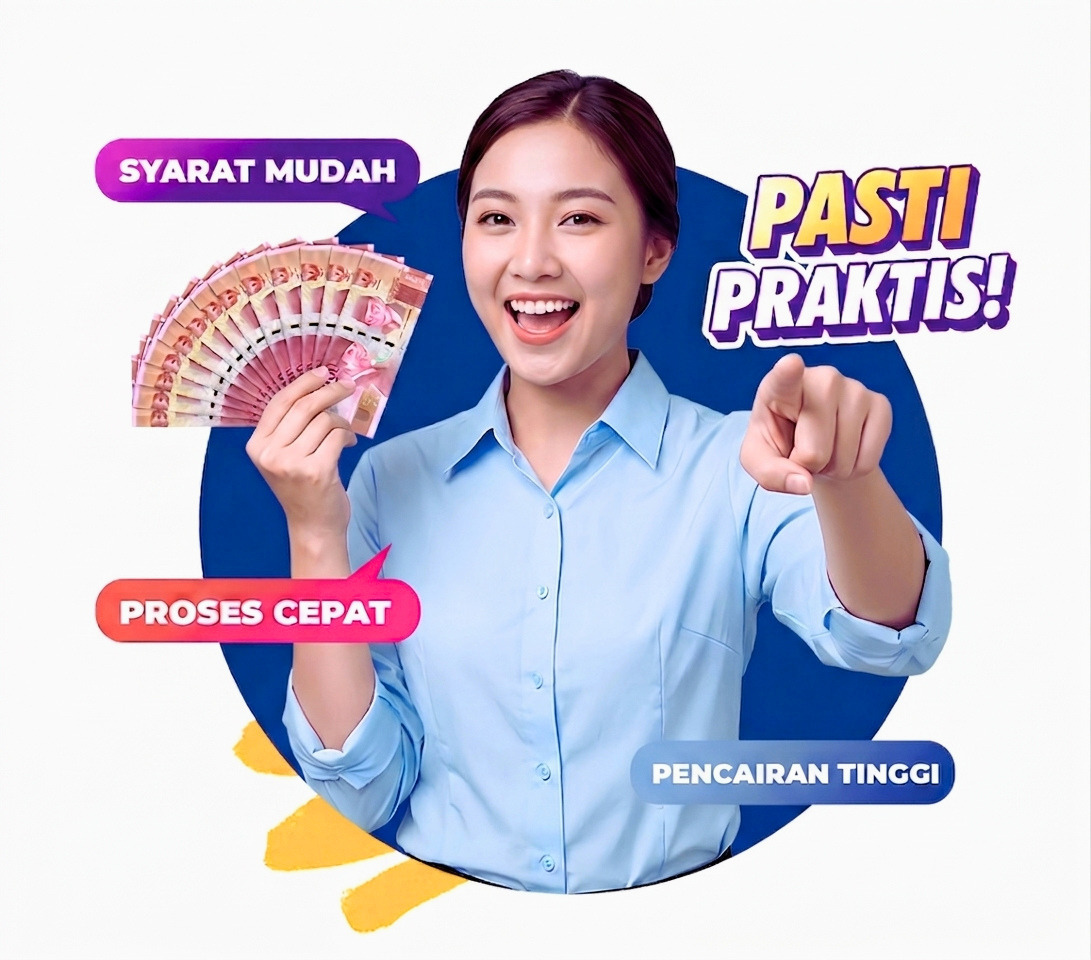
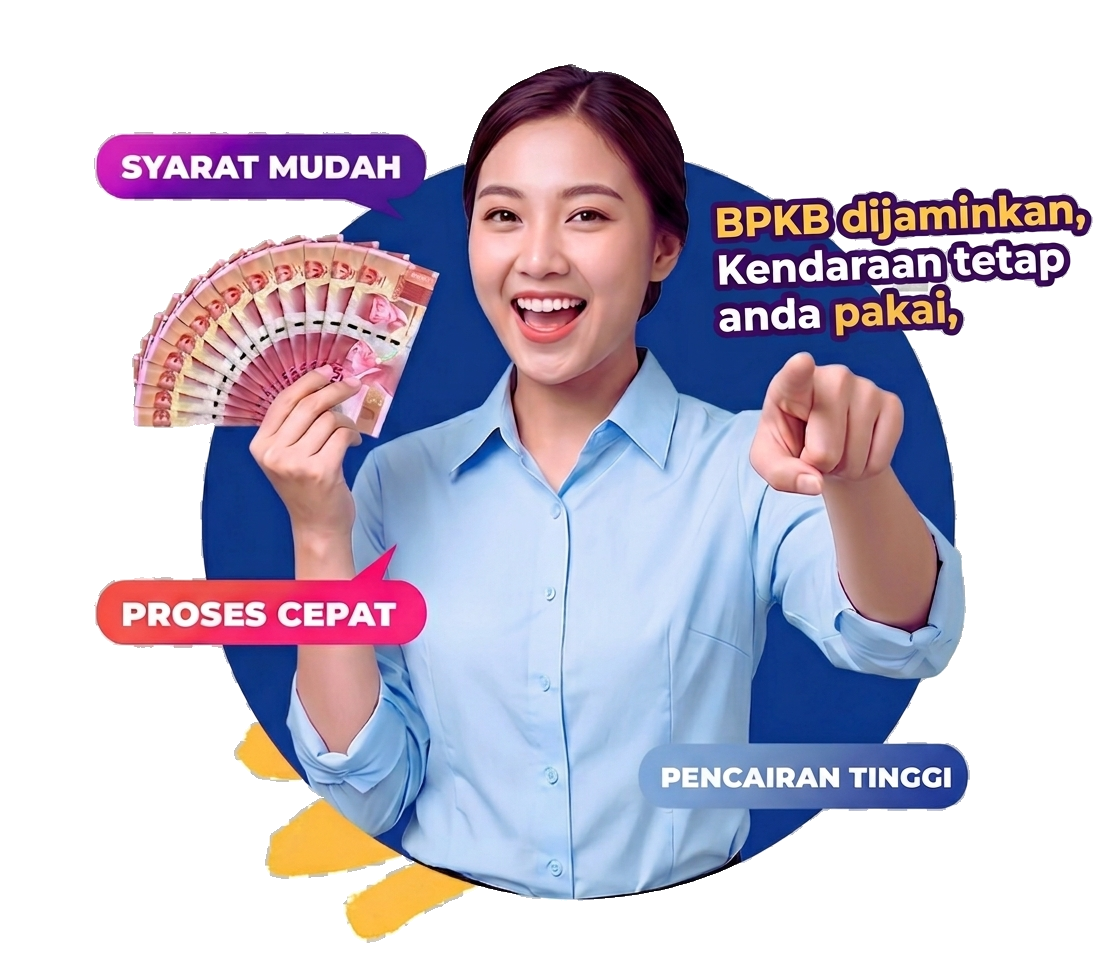
feat: revise hero visual with new copy + preload/sizes per owner spec
Owner supplied a new version of the hero image with updated speech-bubble
copy ("BPKB dijaminkan, Kendaraan tetap anda pakai"). The file was a JPEG
with a checkerboard pattern baked into the pixels where transparency was
intended (JPEG has no alpha channel at all) — flood-filled the
checkerboard region from the image borders and re-exported as a real
transparent PNG; verified alpha values directly (not just visually) and
composited onto the site's background color to confirm no holes were
punched into the subject's white areas (teeth, text).

Owner also explicitly requested `priority` and a specific `sizes` value.
Used `preload` instead — Next.js 16 deprecated `priority` in favor of it.
Left a code comment restating the earlier mobile-LCP concern (this image
sits below the CTA buttons on the mobile grid-cols-1 layout, so it isn't
actually the LCP element there) since this reverses that prior decision;
flagged to the owner in chat as well, not silently overridden.

Changed region(s): [[0.0623, 0.0, 1.0, 1.0], [0.2181, 0.875, 0.2493, 0.9062]]

diff --git a/components/HeroSection.tsx b/components/HeroSection.tsx
@@ -58,20 +58,24 @@ export function HeroSection() {
         </div>
 
         <div className="flex justify-center lg:justify-end">
-          {/* Visual asli dari owner (ganti ilustrasi SVG generik
-              sebelumnya). SENGAJA tidak preload: di breakpoint mobile
-              (yang dipakai Lighthouse) layout ini grid-cols-1, jadi
-              gambar ini ada DI BAWAH tombol CTA, bukan LCP sungguhan —
-              preload di sini hanya menyaingi bandwidth font/teks hero
-              yang benar-benar LCP-nya. Lihat riwayat regresi LCP redesign
-              sebelumnya sebelum mengubah ini. width/height eksplisit
-              tetap dipasang supaya next/image bisa optimasi ukuran file
-              PNG mentahnya. */}
+          {/* Visual asli dari owner (revisi kedua — versi pertama diganti
+              karena background "transparan" yang dikirim ternyata JPEG
+              dengan pola kotak-kotak yang ter-bakar jadi piksel sungguhan;
+              sudah dibersihkan lewat flood-fill dari tepi gambar jadi PNG
+              transparan asli). preload dipasang atas instruksi eksplisit
+              owner — CATATAN: di breakpoint mobile (grid-cols-1) gambar
+              ini ada di bawah tombol CTA, bukan elemen LCP sungguhan,
+              jadi preload di sini bisa menyaingi bandwidth font/teks hero
+              yang LCP-nya. Sudah pernah diberi tahu soal ini sebelumnya;
+              kalau skor Lighthouse mobile turun lagi, ini kandidat
+              pertama yang dicurigai. */}
           <Image
             src="/hero-visual.png"
             alt="Pengajuan gadai BPKB cepat, syarat mudah, pencairan tinggi"
-            width={1091}
+            width={1120}
             height={960}
+            preload
+            sizes="(max-width: 1024px) 90vw, 680px"
             className="w-full max-w-sm"
           />
         </div>
